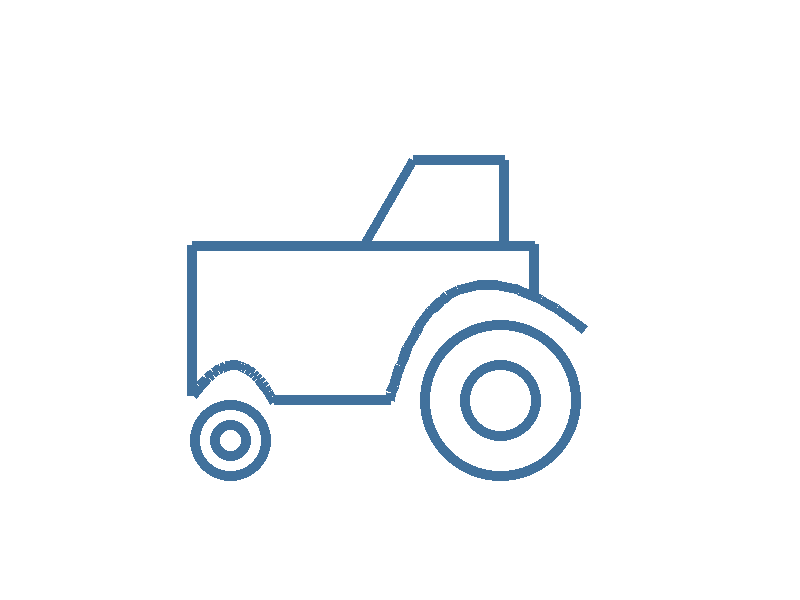
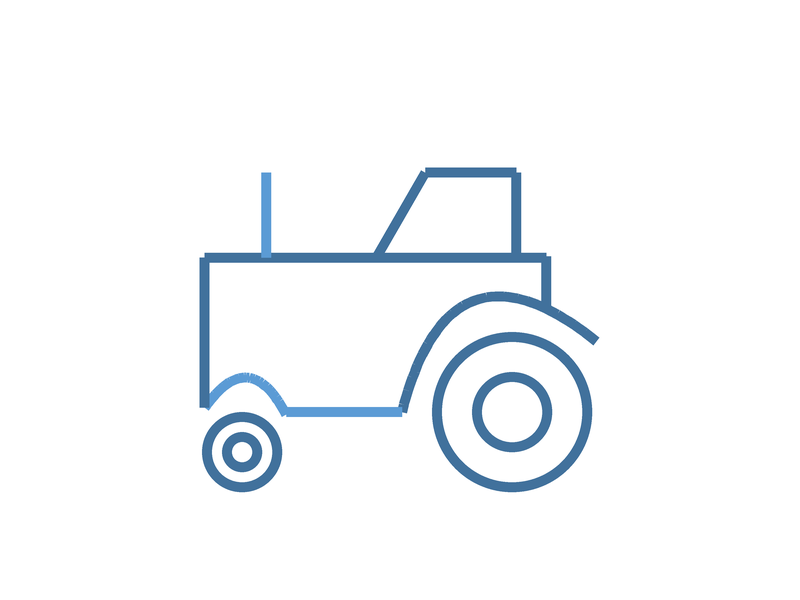
adding move functionility

Changed region(s): [[0.2188, 0.24, 0.75, 0.84]]

diff --git a/main.py b/main.py
@@ -1,8 +1,142 @@
 # main.py
 import tkinter as tk
+from tkinter import ttk
+
 from tractor_parts import RearWheel, FrontWheel, RearCurve, FrontCurve, ConnectingLine, FrontVerticalLine, \
-    RearVerticalLine, HorizontalLine, CockpitVerticalLine, CockpitDiagonalLine, CockpitRoofLine, ChimneyLine
+    RearVerticalLine, HorizontalLine, CockpitVerticalLine, CockpitDiagonalLine, CockpitRoofLine, Chimney
 from PIL import Image, ImageDraw, ImageTk
+from transform_tractor import  move_tractor
+
+
+def reset_tractor(original_vertices, canvas, update_callback):
+    update_callback(original_vertices, canvas)
+
+
+def get_coordinates(callback):
+    coord_window = tk.Toplevel()
+    coord_window.title("Enter Coordinates")
+
+    x_label = tk.Label(coord_window, text="X:")
+    x_label.grid(row=0, column=0, padx=5, pady=5)
+    x_entry = tk.Entry(coord_window)
+    x_entry.grid(row=0, column=1, padx=5, pady=5)
+
+    y_label = tk.Label(coord_window, text="Y:")
+    y_label.grid(row=1, column=0, padx=5, pady=5)
+    y_entry = tk.Entry(coord_window)
+    y_entry.grid(row=1, column=1, padx=5, pady=5)
+
+    def on_submit():
+        try:
+            x = float(x_entry.get())
+            y = float(y_entry.get())
+            callback(x, y)
+            coord_window.destroy()
+        except ValueError:
+            tk.messagebox.showerror("Error", "Invalid coordinates. Please enter valid numbers.")
+
+    submit_button = tk.Button(coord_window, text="Submit", command=on_submit)
+    submit_button.grid(row=2, columnspan=2, padx=5, pady=5)
+
+
+def create_move_tab(tab_control, vertices, canvas, update_callback):
+    move_frame = ttk.Frame(tab_control)
+    tab_control.add(move_frame, text="Move")
+
+    def on_move_click():
+        get_coordinates(lambda dx, dy: move_tractor(vertices, dx, dy, canvas, update_callback))
+
+    move_button = tk.Button(move_frame, text="Move Tractor", command=on_move_click)
+    move_button.pack(padx=10, pady=10)
+
+    reset_button = tk.Button(move_frame, text="Reset Tractor",
+                             command=lambda: reset_tractor(original_vertices, canvas, update_callback))
+    reset_button.pack(padx=10, pady=10)
+
+
+
+def create_scaled_image(vertices, scale_factor):
+    img = Image.new("RGBA", (800 * scale_factor, 600 * scale_factor), "white")
+    draw = ImageDraw.Draw(img)
+
+    last_point = None
+    for item in vertices:
+        if len(item) == 4:
+            x, y, radius, bit = item
+            draw_wheel(draw, x * scale_factor, y * scale_factor, radius * scale_factor, bit,
+                       fill_color='#5b9bd5' if bit == 0 and item in front_curve.get_drawing_data() else '#41719C')
+        elif len(item) == 5:
+            x1, y1, x2, y2, bit = item
+            if last_point is not None and bit == 1:
+                draw.line([last_point, (x1 * scale_factor, y1 * scale_factor)], fill='#000000', width=10 * scale_factor)
+            if bit == 1:
+                draw.line([(x1 * scale_factor, y1 * scale_factor), (x2 * scale_factor, y2 * scale_factor)],
+                          fill='#000000', width=10 * scale_factor)
+                last_point = (x2 * scale_factor, y2 * scale_factor)
+            else:
+                last_point = None
+
+    for i in range(len(vertices) - 1):
+        item1 = vertices[i]
+        item2 = vertices[i + 1]
+        if len(item1) == 4 and len(item2) == 4:
+            _, _, bit1, group1 = item1
+            _, _, bit2, group2 = item2
+            if bit1 == 0 and bit2 == 0 and group1 == group2:
+                fill_color = '#5b9bd5' if group1 in [2, 3, 8] else '#41719C'
+                draw.line([(item1[0] * scale_factor, item1[1] * scale_factor),
+                           (item2[0] * scale_factor, item2[1] * scale_factor)], fill=fill_color,
+                          width=10 * scale_factor)
+
+    img = img.resize((800, 600), Image.ANTIALIAS)
+    return img
+
+def update_tractor_drawing(vertices, canvas=None):
+    img = create_scaled_image(vertices, scale_factor=4)
+    img.save("temp_tractor_image.png")
+    photo = ImageTk.PhotoImage(file="temp_tractor_image.png")
+    canvas.delete("all")
+    canvas.create_image(0, 0, image=photo, anchor=tk.NW)
+    canvas.image = photo
+    canvas.vertices = vertices
+
+def create_window(vertices, update_callback=None):
+    scale_factor = 4
+    window = tk.Tk()
+    window.title("Tractor Drawing")
+    window.geometry("800x600")
+    global original_vertices
+    original_vertices = vertices.copy()
+
+
+    img = Image.new("RGBA", (800 * scale_factor, 600 * scale_factor), "white")
+    draw = ImageDraw.Draw(img)
+
+    # Create a Notebook (tabbed interface)
+    notebook = ttk.Notebook(window)
+    notebook.pack(fill='both', expand=True)
+
+    # Create the Drawing tab
+    drawing_frame = tk.Frame(notebook)
+    notebook.add(drawing_frame, text="Drawing")
+
+    # Create the canvas object
+    canvas = tk.Canvas(drawing_frame, width=800, height=600)
+    canvas.pack()
+
+    # Create the Move tab using the create_move_tab function
+    create_move_tab(notebook, vertices, canvas, update_callback)
+
+    img = create_scaled_image(vertices, scale_factor)
+    img.save("temp_tractor_image.png")
+    photo = ImageTk.PhotoImage(file="temp_tractor_image.png")
+
+    # Create the Move tab
+    canvas.create_image(0, 0, image=photo, anchor=tk.NW)
+    canvas.image = photo
+    canvas.vertices = vertices
+    return window
+
 
 
 def draw_arc(canvas, x1, y1, x2, y2, start, extent, width, fill):
@@ -26,71 +160,19 @@ def load_data(filename):
 
     return loaded_data
 
-def draw_wheel(draw, x, y, radius, bit):
+def draw_wheel(draw, x, y, radius, bit, fill_color):
     if bit == 0:
-        draw.ellipse([(x - radius, y - radius), (x + radius, y + radius)], outline='#41719C', width=10)
+        draw.ellipse([(x - radius, y - radius), (x + radius, y + radius)], outline=fill_color, width=40)
 
-def create_window(vertices):
-    window = tk.Tk()
-    window.title("Tractor Drawing")
-    window.geometry("800x600")
 
-    img = Image.new("RGBA", (800, 600), "white")
-    draw = ImageDraw.Draw(img)
-
-    for item in vertices:
-        if len(item) == 4:
-            x, y, radius, bit = item
-            draw_wheel(draw, x, y, radius, bit)
-        elif len(item) == 5 or len(item) == 6:  # Check if the point has color information
-            x1, y1, x2, y2, color = item[:5]
-            draw.line([(x1, y1), (x2, y2)], fill=color, width=10)
-
-        # elif len(item) == 5:  # Check if the point has color information
-        #     x1, y1, x2, y2, color = item
-        #     draw.line([(x1, y1), (x2, y2)], fill=color, width=10)
-        # elif len(item) == 6:
-        #     x1, y1, x2, y2, bit, group = item
-        #     line_color = '#41719C'
-        #     draw.line([(x1, y1), (x2, y2)], fill=line_color, width=10)
-
-    for i in range(len(vertices) - 1):
-        item1 = vertices[i]
-        item2 = vertices[i + 1]
-        if len(item1) == 4 and len(item2) == 4:
-            _, _, bit1, group1 = item1
-            _, _, bit2, group2 = item2
-            if bit1 == 0 and bit2 == 0 and group1 == group2:
-                draw.line([(item1[0], item1[1]), (item2[0], item2[1])], fill='#41719C', width=10)
-
-    # Save the image temporarily
-    img.save("temp_tractor_image.png")
-
-    # Load the image using PhotoImage
-    photo = tk.PhotoImage(file="temp_tractor_image.png")
-
-    # Create a canvas and add the image to the canvas
-    canvas = tk.Canvas(window, width=800, height=600)
-    canvas.pack()
-    canvas.create_image(0, 0, image=photo, anchor=tk.NW)
-
-    # To keep the reference to the PhotoImage object
-    canvas.image = photo
-
-    return window
 
 if __name__ == '__main__':
     rear_wheel = RearWheel(x=500, y=400, outer_radius=80, inner_radius=40)
     front_wheel = FrontWheel(x=230, y=400, outer_radius=40, inner_radius=20)
-
     ground_y = rear_wheel.y + rear_wheel.outer_radius
     front_wheel.y = ground_y - front_wheel.outer_radius
-
     rear_curve = RearCurve(rear_wheel)
     front_curve = FrontCurve(front_wheel)
-    front_curve1 = FrontCurve(front_wheel)
-
-
     connecting_line = ConnectingLine(front_curve, rear_curve)
     front_vertical_line = FrontVerticalLine(front_curve, length=150)
     rear_vertical_line = RearVerticalLine(rear_curve, length=50, offset_x=50,
@@ -99,7 +181,8 @@ if __name__ == '__main__':
     cockpit_vertical_line = CockpitVerticalLine(horizontal_line, length=85, offset_x=30)
     cockpit_diagonal_line = CockpitDiagonalLine(cockpit_vertical_line, horizontal_line, length=98, offset_x=170)
     cockpit_roof_line = CockpitRoofLine(cockpit_vertical_line, cockpit_diagonal_line)
-    chimney_line = ChimneyLine(horizontal_line, length=120, offset_x=100)
+    chimney = Chimney(horizontal_line, length=85, offset_x=280)
+
 
     drawing_data = (
             rear_wheel.get_drawing_data() +
@@ -113,12 +196,12 @@ if __name__ == '__main__':
             cockpit_vertical_line.get_drawing_data() +
             cockpit_diagonal_line.get_drawing_data() +
             cockpit_roof_line.get_drawing_data() +
-            chimney_line.get_drawing_data()
-
+            chimney.get_drawing_data()
     )
 
     data_filename = "tractor_data.txt"
     create_data_file(data_filename, drawing_data)
     data = load_data(data_filename)
-    window = create_window(data)
+    window = create_window(data, update_callback=update_tractor_drawing)
+
     window.mainloop()

diff --git a/tractor_parts.py b/tractor_parts.py
@@ -1,9 +1,6 @@
 import math
 from bezier import Bezier
 
-
-
-
 def flip_y(y, canvas_height):
     return canvas_height - y
 
@@ -248,21 +245,21 @@ class CockpitRoofLine(TractorPart):
 
         return roof_line
 
-class ChimneyLine(TractorPart):
+class Chimney(TractorPart):
     def __init__(self, horizontal_line, length, offset_x):
+        super().__init__()
         self.horizontal_line = horizontal_line
         self.length = length
         self.offset_x = offset_x
 
     def get_drawing_data(self):
-        horizontal_line_data = self.horizontal_line.get_drawing_data()
-        x1 = horizontal_line_data[0][0] + self.offset_x
-        y1 = horizontal_line_data[0][1]
-        x2 = x1
-        y2 = y1 - self.length
-        color = "#FF0000"  # You can change the color to your preference
-        return [(x1, y1, x2, y2, color)]
+        horizontal_line_rightmost_point = max(self.horizontal_line.get_drawing_data(), key=lambda point: point[0])
+        vertical_line_start = (horizontal_line_rightmost_point[0] - self.offset_x, horizontal_line_rightmost_point[1])
+        vertical_line_end = (horizontal_line_rightmost_point[0] - self.offset_x, horizontal_line_rightmost_point[1] - self.length)
 
+        vertical_line = [
+            (vertical_line_start[0], vertical_line_start[1], 0, 8),
+            (vertical_line_end[0], vertical_line_end[1], 0, 8),
+        ]
 
-
-
+        return vertical_line

diff --git a/transform_tractor.py b/transform_tractor.py
@@ -1,0 +1,31 @@
+import tkinter as tk
+from tkinter import ttk, messagebox
+
+
+
+
+def apply_move(vertices, x_offset, y_offset):
+    new_vertices = []
+    for item in vertices:
+        if len(item) == 4:
+            new_vertices.append((item[0] + x_offset, item[1] + y_offset, item[2], item[3]))
+        elif len(item) == 5:
+            new_vertices.append((item[0] + x_offset, item[1] + y_offset, item[2] + x_offset, item[3] + y_offset, item[4]))
+    return new_vertices
+
+def move_tractor(vertices, dx, dy, canvas, update_callback):
+    new_vertices = []
+    for item in vertices:
+        if len(item) == 4:
+            x, y, radius, group = item
+            new_vertices.append((x + dx, y + dy, radius, group))
+        elif len(item) == 5:
+            x1, y1, x2, y2, group = item
+            new_vertices.append((x1 + dx, y1 + dy, x2 + dx, y2 + dy, group))
+    update_callback(new_vertices, canvas)
+
+
+
+
+
+
